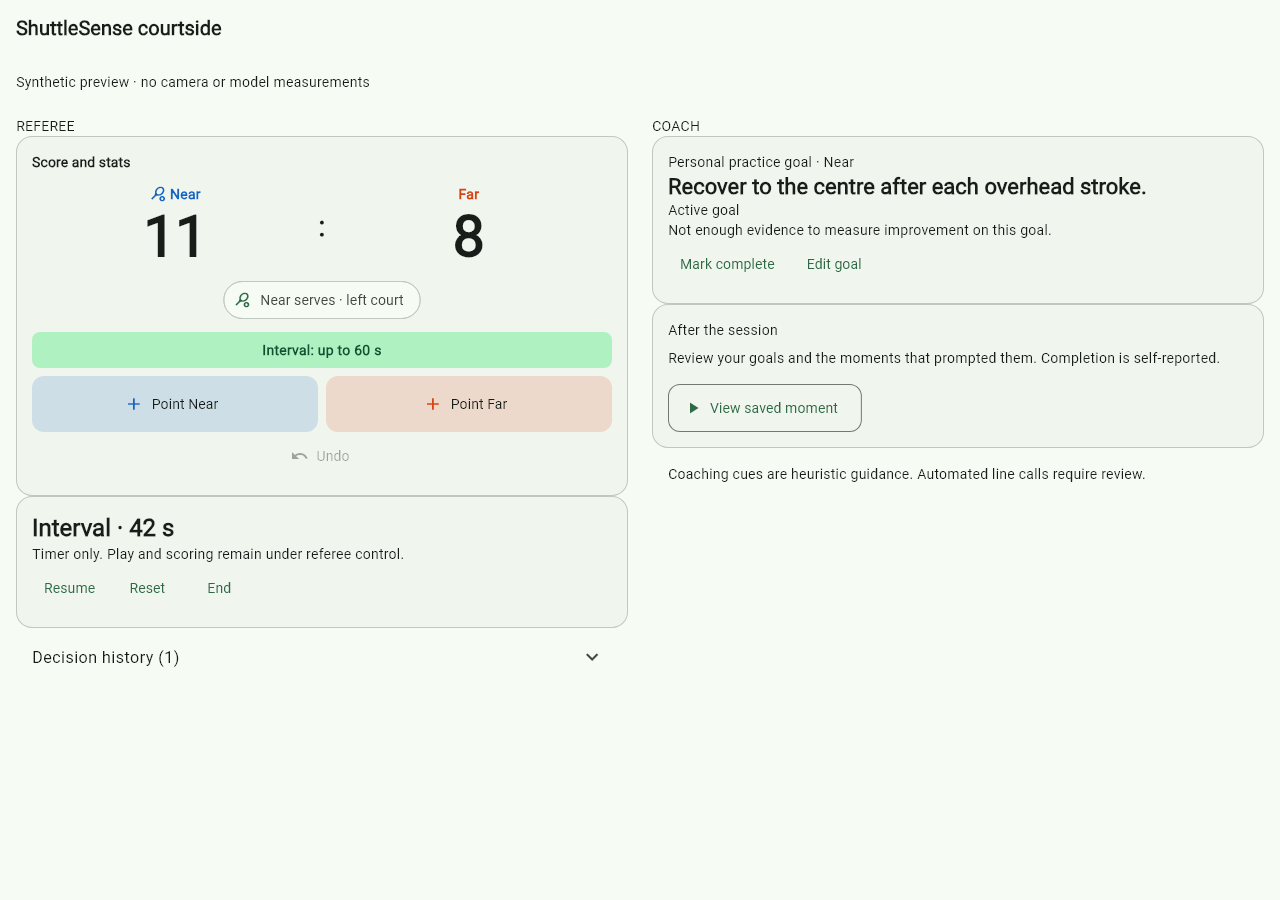
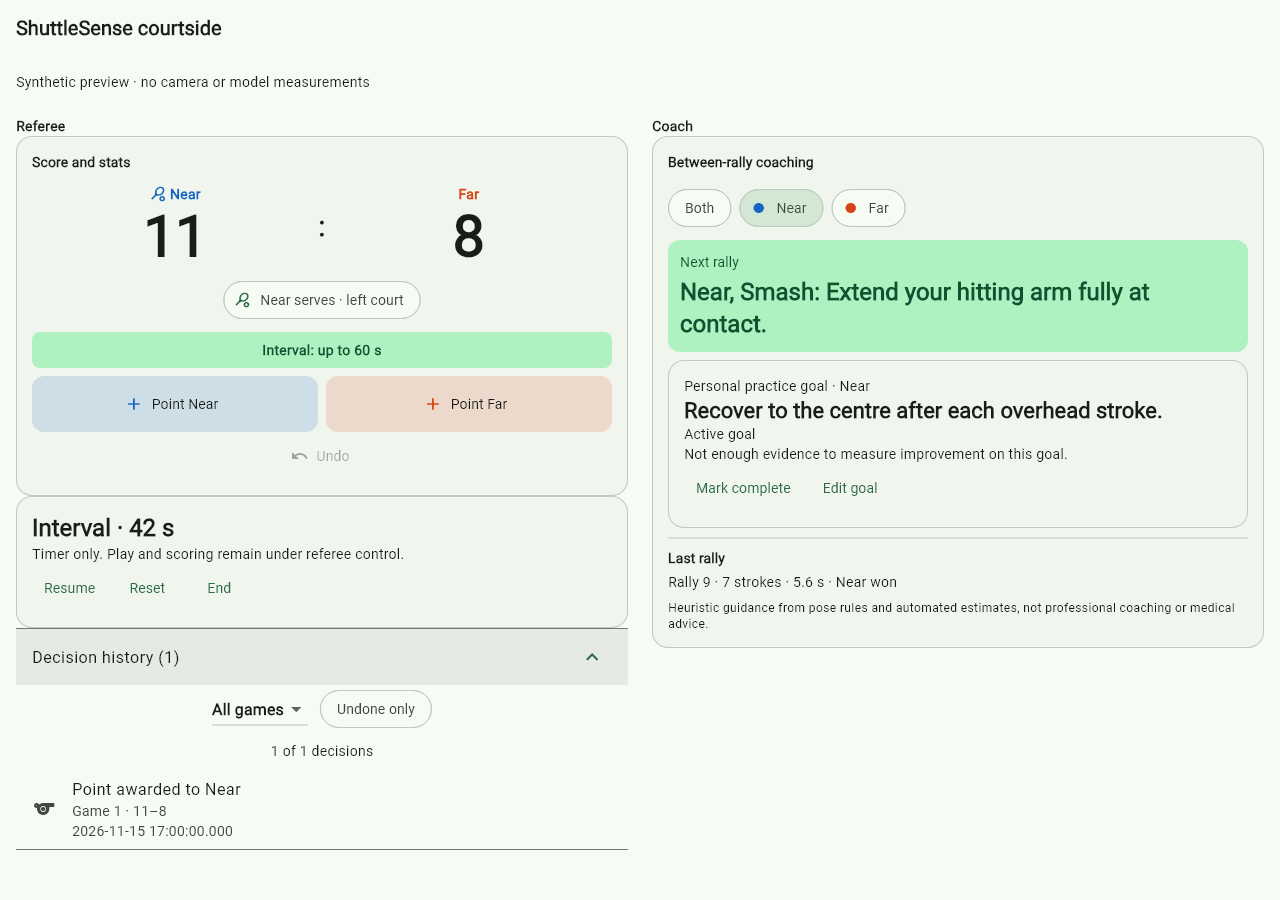
fix(app): improve courtside layout and feedback
Refs T13.5, T13.7.

diff --git a/app/lib/features/live/live_screen.dart b/app/lib/features/live/live_screen.dart
@@ -520,7 +520,7 @@ class _LiveViewState extends ConsumerState<_LiveView> {
                 child: Center(
                   child: Text(switch (state.phase) {
                     LivePhase.connecting => 'Connecting… the server may be loading its models',
-                    LivePhase.reconnecting => 'Refreshing camera connection…',
+                    LivePhase.reconnecting => 'Reconnecting…',
                     LivePhase.stopping => 'Saving the session…',
                     _ => '',
                   }, style: const TextStyle(color: Colors.white, fontSize: 18)),
@@ -529,6 +529,27 @@ class _LiveViewState extends ConsumerState<_LiveView> {
           ],
         ),
       ),
+    );
+    final scoreboard = Scoreboard(
+      record: record,
+      frameIndex: frameIndex,
+      live: true,
+      busy: !_coach && decisionBusy,
+      showHistory: false,
+      onAward: _coach ? null : controller.award,
+      onUndo: _coach ? null : controller.undo,
+      onSetService: _coach ? null : controller.setService,
+      onClearLast: _coach || lastRally?.winner == null
+          ? null
+          : () => controller.correct(lastRally!.index, null),
+      doubles: state.doubles,
+      onAwardReason: _coach || !courtside
+          ? null
+          : (side, reason) => controller.award(side, reason: reason),
+      onLet: _coach || !courtside || lastRally == null
+          ? null
+          : () => controller.correct(lastRally.index, null, reason: 'let'),
+      onConcede: _coach || !courtside ? null : controller.concede,
     );
     final controls = [
       SegmentedButton<bool>(
@@ -555,16 +576,28 @@ class _LiveViewState extends ConsumerState<_LiveView> {
         Card(
           key: const Key('match-over'),
           color: Theme.of(context).colorScheme.tertiaryContainer,
-          child: ListTile(
-            leading: const Icon(Icons.emoji_events_outlined),
-            title: Text('Match won by ${playerLabel(record.score!.matchWinner!)}'),
-            subtitle: const Text('Stop to save it, or Undo to change the result.'),
-            trailing: FilledButton(
-              onPressed: decisionBusy ? null : () => confirmStop(context, state, controller.stop),
-              child: const Text('Stop and save'),
+          child: Padding(
+            padding: const EdgeInsets.all(12),
+            child: Column(
+              crossAxisAlignment: CrossAxisAlignment.start,
+              children: [
+                Text(
+                  'Match won by ${playerLabel(record.score!.matchWinner!)}',
+                  style: Theme.of(context).textTheme.titleMedium,
+                ),
+                if (!_coach) const Text('Undo to change the result.'),
+                FilledButton(
+                  onPressed: decisionBusy
+                      ? null
+                      : () => confirmStop(context, state, controller.stop),
+                  child: const Text('Stop and save'),
+                ),
+              ],
             ),
           ),
         ),
+      if (state.phase == LivePhase.stopping)
+        Semantics(liveRegion: true, child: const Text('Saving the session to History…')),
       if (state.phase == LivePhase.reconnecting ||
           (state.phase == LivePhase.live && controller.pendingAction != null))
         Semantics(
@@ -575,27 +608,7 @@ class _LiveViewState extends ConsumerState<_LiveView> {
                 : controller.pendingAction!,
           ),
         ),
-      Scoreboard(
-        record: record,
-        frameIndex: frameIndex,
-        live: true,
-        busy: !_coach && decisionBusy,
-        showHistory: false,
-        onAward: _coach ? null : controller.award,
-        onUndo: _coach ? null : controller.undo,
-        onSetService: _coach ? null : controller.setService,
-        onClearLast: _coach || lastRally?.winner == null
-            ? null
-            : () => controller.correct(lastRally!.index, null),
-        doubles: state.doubles,
-        onAwardReason: _coach || !courtside
-            ? null
-            : (side, reason) => controller.award(side, reason: reason),
-        onLet: _coach || !courtside || lastRally == null
-            ? null
-            : () => controller.correct(lastRally.index, null, reason: 'let'),
-        onConcede: _coach || !courtside ? null : controller.concede,
-      ),
+      if (!_coach) scoreboard,
       if (!_coach && pendingReviews.isNotEmpty)
         Text(
           '${pendingReviews.length} ${pendingReviews.length == 1 ? 'call' : 'calls'} awaiting review',
@@ -631,10 +644,29 @@ class _LiveViewState extends ConsumerState<_LiveView> {
       if (goal != null && mounted) controller.saveGoal(goal);
     }
 
+    final goalControls = !state.courtsideDepth
+        ? null
+        : savedGoal == null
+        ? Align(
+            alignment: Alignment.centerLeft,
+            child: OutlinedButton.icon(
+              onPressed: decisionBusy ? null : editGoal,
+              icon: const Icon(Icons.flag_outlined),
+              label: const Text('Set practice goal'),
+            ),
+          )
+        : PracticeGoalCard(
+            goal: savedGoal,
+            onComplete: decisionBusy
+                ? null
+                : (done) => controller.saveGoal(savedGoal, completed: done),
+            onEdit: decisionBusy ? null : editGoal,
+          );
     final details = _coach
         ? LiveCoachPanel(
             state: state,
             player: _coachPlayer,
+            goalControls: goalControls,
             practiceCue: state.courtsideDepth ? null : _practiceCues[_coachPlayer],
             onPracticeCueChanged: state.courtsideDepth
                 ? (decisionBusy
@@ -685,30 +717,6 @@ class _LiveViewState extends ConsumerState<_LiveView> {
         );
       }
       if (!_coach) controls.add(DecisionHistory(record: record));
-      if (_coach) {
-        if (savedGoal != null) {
-          controls.add(
-            PracticeGoalCard(
-              goal: savedGoal,
-              onComplete: decisionBusy
-                  ? null
-                  : (done) => controller.saveGoal(savedGoal, completed: done),
-              onEdit: decisionBusy ? null : editGoal,
-            ),
-          );
-        } else {
-          controls.add(
-            Align(
-              alignment: Alignment.centerLeft,
-              child: OutlinedButton.icon(
-                onPressed: decisionBusy ? null : editGoal,
-                icon: const Icon(Icons.flag_outlined),
-                label: const Text('Set practice goal'),
-              ),
-            ),
-          );
-        }
-      }
     }
     final camera = [
       video,
@@ -718,6 +726,7 @@ class _LiveViewState extends ConsumerState<_LiveView> {
       if (state.hits.isNotEmpty) HitCallout(hit: state.hits.last),
     ];
     final analysis = [
+      if (_coach) scoreboard,
       CourtMinimap(
         record: record,
         frameIndex: frameIndex,

diff --git a/app/test/courtside_preview.dart b/app/test/courtside_preview.dart
@@ -7,6 +7,8 @@ import 'package:flutter/services.dart';
 import 'package:flutter_test/flutter_test.dart';
 import 'package:shuttlesense_app/core/theme/app_theme.dart';
 import 'package:shuttlesense_app/data/models/clip_record.dart';
+import 'package:shuttlesense_app/features/live/live_controller.dart';
+import 'package:shuttlesense_app/features/live/widgets/live_coach_panel.dart';
 import 'package:shuttlesense_app/features/results/widgets/scoreboard.dart';
 import 'package:shuttlesense_app/shared/widgets/courtside_tools.dart';
 
@@ -69,7 +71,7 @@ void main() {
       final referee = Column(
         crossAxisAlignment: CrossAxisAlignment.stretch,
         children: [
-          const Text('REFEREE'),
+          Text('Referee', style: AppTheme.light().textTheme.headlineSmall),
           Scoreboard(
             record: record,
             frameIndex: 299,
@@ -93,40 +95,34 @@ void main() {
       final coach = Column(
         crossAxisAlignment: CrossAxisAlignment.stretch,
         children: [
-          const Text('COACH'),
-          PracticeGoalCard(
-            goal: const PracticeGoal(
-              text: 'Recover to the centre after each overhead stroke.',
-              player: 'near',
-            ),
-            onComplete: (_) {},
-            onEdit: () {},
-          ),
-          Card(
-            child: Padding(
-              padding: const EdgeInsets.all(16),
-              child: Column(
-                crossAxisAlignment: CrossAxisAlignment.start,
-                children: [
-                  const Text('After the session'),
-                  const SizedBox(height: 8),
-                  const Text(
-                    'Review your goals and the moments that prompted them. Completion is self-reported.',
-                  ),
-                  const SizedBox(height: 16),
-                  OutlinedButton.icon(
-                    onPressed: () {},
-                    icon: const Icon(Icons.play_arrow),
-                    label: const Text('View saved moment'),
+          Text('Coach', style: AppTheme.light().textTheme.headlineSmall),
+          LiveCoachPanel(
+            player: 'near',
+            onPlayerChanged: (_) {},
+            state: const LiveState(
+              lastRally: RallySummary(
+                index: 8,
+                durationS: 5.6,
+                strokes: 7,
+                winner: 'near',
+                faults: [
+                  (
+                    hitId: 1,
+                    player: 'near',
+                    hitter: null,
+                    stroke: 'smash',
+                    tip: 'Extend your hitting arm fully at contact.',
                   ),
                 ],
               ),
             ),
-          ),
-          const Padding(
-            padding: EdgeInsets.all(16),
-            child: Text(
-              'Coaching cues are heuristic guidance. Automated line calls require review.',
+            goalControls: PracticeGoalCard(
+              goal: const PracticeGoal(
+                text: 'Recover to the centre after each overhead stroke.',
+                player: 'near',
+              ),
+              onComplete: (_) {},
+              onEdit: () {},
             ),
           ),
         ],
@@ -171,7 +167,10 @@ void main() {
           ),
         ),
       );
+      await tester.tap(find.text('Decision history (1)'));
+      // Let expansion finish without waiting for the live interval's periodic ticker.
       await tester.pump();
+      await tester.pump(const Duration(milliseconds: 300));
       expect(tester.takeException(), isNull);
       await tester.runAsync(() async {
         final image = await (boundary.currentContext!.findRenderObject()! as RenderRepaintBoundary)

diff --git a/app/test/courtside_depth_test.dart b/app/test/courtside_depth_test.dart
@@ -244,6 +244,42 @@ void main() {
         expect(tester.takeException(), isNull);
         await tester.pumpWidget(const SizedBox());
       });
+
+      testWidgets('live roles at $width / $brightness / 200% text', (tester) async {
+        await pumpLive(
+          tester,
+          size: Size(width, 1000),
+          brightness: brightness,
+          textScaler: const TextScaler.linear(2),
+          onHello: (_) => {
+            ...startedEvent(),
+            'courtside_depth': true,
+            'decision_ack': true,
+            'decision_dedup': true,
+            'score': {'near': 0, 'far': 0},
+          },
+        );
+        final start = find.text('Start without court');
+        await tester.scrollUntilVisible(start, 120);
+        await tester.pump();
+        await startWithoutCourt(tester);
+        expect(tester.takeException(), isNull);
+        expect(find.text('Point Near'), findsOneWidget);
+        await tester.tap(find.text('Coach'));
+        await events(tester);
+        expect(find.text('Point Near'), findsNothing);
+        final cue = find.text('Next rally');
+        final goal = find.text('Set practice goal');
+        expect(tester.getTopLeft(cue).dy, lessThan(tester.getTopLeft(goal).dy));
+        expect(tester.takeException(), isNull);
+        final container = ProviderScope.containerOf(tester.element(find.byType(LiveScreen)));
+        final controller = container.read(liveControllerProvider.notifier);
+        controller.saveGoal(const PracticeGoal(text: 'Recover to base'));
+        await events(tester);
+        expect(find.text('Saving the practice goal…'), findsOneWidget);
+        await tester.pumpWidget(const SizedBox());
+        await tester.pump(const Duration(seconds: 1));
+      });
     }
   }
 }

diff --git a/app/lib/features/live/widgets/live_coach_panel.dart b/app/lib/features/live/widgets/live_coach_panel.dart
@@ -20,6 +20,7 @@ class LiveCoachPanel extends StatelessWidget {
     this.onPlayerChanged,
     this.practiceCue,
     this.onPracticeCueChanged,
+    this.goalControls,
   });
 
   final LiveState state;
@@ -29,6 +30,7 @@ class LiveCoachPanel extends StatelessWidget {
   final ValueChanged<String?>? onPlayerChanged;
   final PracticeCue? practiceCue;
   final ValueChanged<PracticeCue?>? onPracticeCueChanged;
+  final Widget? goalControls;
 
   Widget _pinButton(String text, int rally) {
     final cue = (text: text, rally: rally);
@@ -131,6 +133,7 @@ class LiveCoachPanel extends StatelessWidget {
           ),
           if (last != null && nextCue != null && onPracticeCueChanged != null)
             _pinButton(nextCue, last.index),
+          if (goalControls case final goal?) ...[const SizedBox(height: Spacing.sm), goal],
           if (last != null) ...[
             const Divider(height: 20),
             Text('Last rally', style: theme.textTheme.titleSmall),

diff --git a/app/test/helpers.dart b/app/test/helpers.dart
@@ -34,6 +34,7 @@ Future<List<String>> pumpScreen(
   List<Override> overrides = const [],
   bool settle = true,
   Brightness brightness = Brightness.light,
+  TextScaler textScaler = TextScaler.noScaling,
 }) async {
   setSize(tester, size);
   SharedPreferences.setMockInitialValues({'server.baseUrl': 'http://fake:8000', ...prefs});
@@ -64,6 +65,10 @@ Future<List<String>> pumpScreen(
       child: MaterialApp.router(
         theme: brightness == Brightness.dark ? AppTheme.dark() : AppTheme.light(),
         routerConfig: router,
+        builder: (context, child) => MediaQuery(
+          data: MediaQuery.of(context).copyWith(textScaler: textScaler),
+          child: child!,
+        ),
       ),
     ),
   );

diff --git a/app/test/live_test.dart b/app/test/live_test.dart
@@ -40,6 +40,7 @@ Future<List<FakeLiveSocket>> pumpLive(
   FakeApiClient? api,
   bool unreachable = false,
   Brightness brightness = Brightness.light,
+  TextScaler textScaler = TextScaler.noScaling,
   Map<String, dynamic>? Function(Map<String, dynamic> hello)? onHello,
 }) async {
   final sockets = <FakeLiveSocket>[];
@@ -49,6 +50,7 @@ Future<List<FakeLiveSocket>> pumpLive(
     size: size,
     api: api,
     brightness: brightness,
+    textScaler: textScaler,
     prefs: {'ui.mode': 'live'},
     overrides: [
       frameSourceFactoryProvider.overrideWithValue(() => source ?? FakeFrameSource()),
